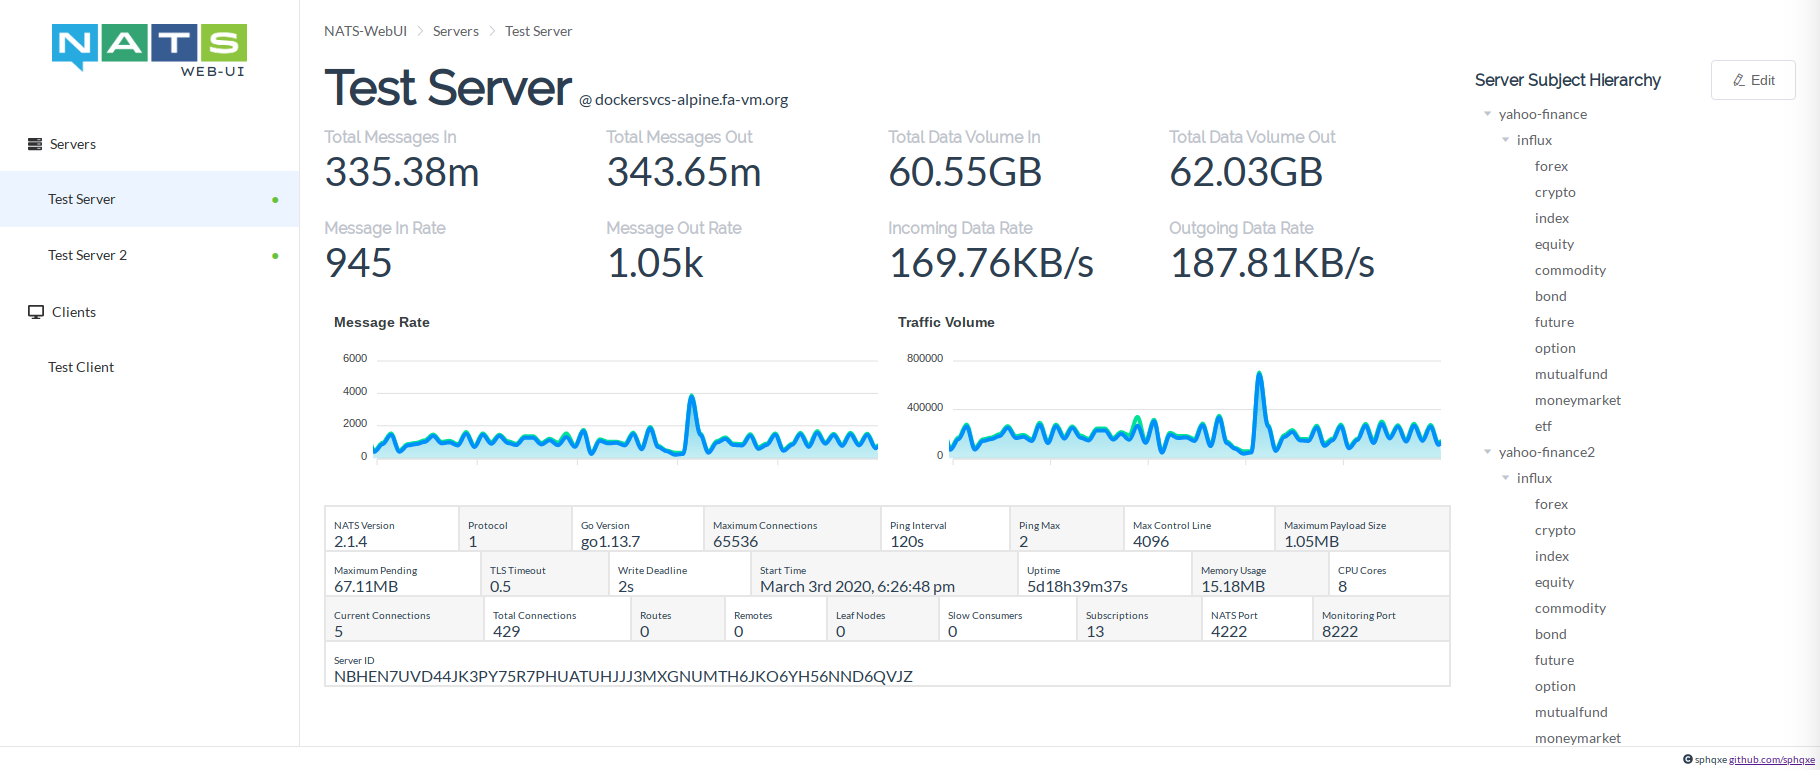
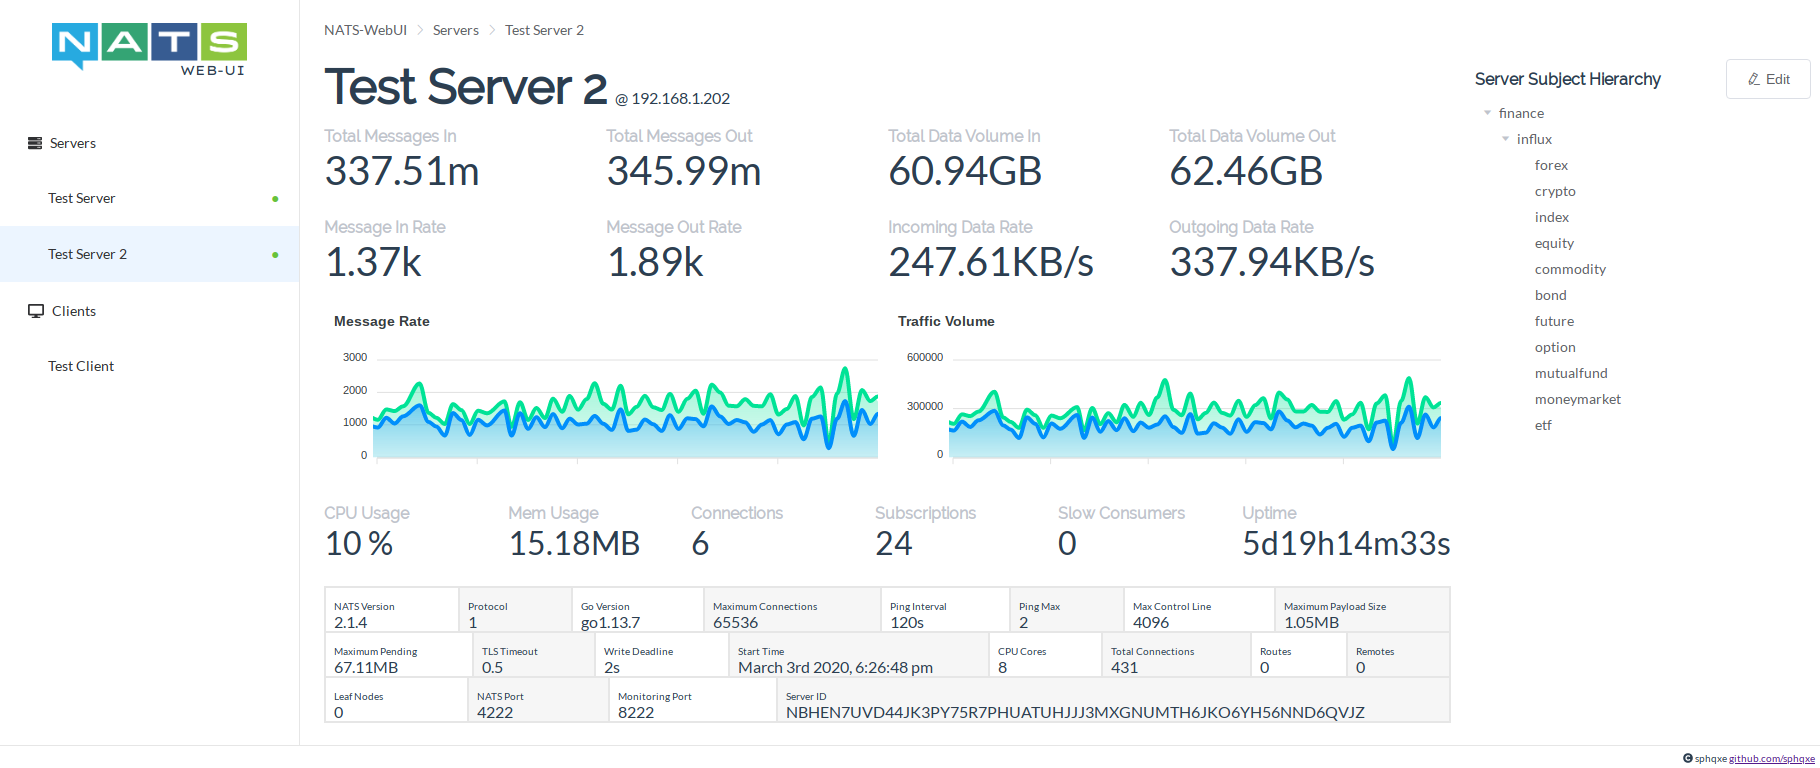
GUI updates

diff --git a/web/src/components/Monitor.vue b/web/src/components/Monitor.vue
@@ -59,6 +59,32 @@
             <VueApexCharts style="flex: 1 1 50%;" v-show="msgs_in_series.length > 1" width="100%" height="180" type="area" ref="chart1" :options="chart1Options" :series="series1"></VueApexCharts>
             <VueApexCharts style="flex: 1 1 50%;" v-show="bytes_in_series.length > 1" width="100%" height="180" type="area" ref="chart2" :options="chart2Options" :series="series2"></VueApexCharts>
           </div>
+          <div class="metric-row">
+            <div class="metric-smaller">
+              <h1 class="metric-label">CPU Usage</h1>
+              <span class="metric-value-smaller">{{ server.varz.cpu | numeral('0.[00]a') }} %</span>
+            </div>
+            <div class="metric-smaller">
+              <h1 class="metric-label">Mem Usage</h1>
+              <span class="metric-value-smaller">{{ server.varz.mem | numeral('0.00b') }}</span>
+            </div>
+            <div class="metric-smaller">
+              <h1 class="metric-label">Connections</h1>
+              <span class="metric-value-smaller">{{ server.varz.connections }}</span>
+            </div>
+            <div class="metric-smaller">
+              <h1 class="metric-label">Subscriptions</h1>
+              <span class="metric-value-smaller">{{ server.varz.subscriptions }}</span>
+            </div>
+            <div class="metric-smaller">
+              <h1 class="metric-label">Slow Consumers</h1>
+              <span class="metric-value-smaller">{{ server.varz.slow_consumers }}</span>
+            </div>
+            <div class="metric-smaller">
+              <h1 class="metric-label">Uptime</h1>
+              <span class="metric-value-smaller">{{ server.varz.uptime }}</span>
+            </div>
+          </div>
           <div id="small-metrics" style="display: flex; flex-direction: row; flex-wrap: wrap;">
             <div class="small-metric">
               <span class="metric-label-small">
@@ -158,34 +184,10 @@
             </div>
             <div class="small-metric">
               <span class="metric-label-small">
-                Uptime
-              </span>
-              <span class="metric-value-small">
-                {{ server.varz.uptime }}
-              </span>
-            </div>
-            <div class="small-metric">
-              <span class="metric-label-small">
-                Memory Usage
-              </span>
-              <span class="metric-value-small">
-                {{ server.varz.mem | numeral('0.00b') }}
-              </span>
-            </div>
-            <div class="small-metric">
-              <span class="metric-label-small">
                 CPU Cores
               </span>
               <span class="metric-value-small">
                 {{ server.varz.cores }}
-              </span>
-            </div>
-            <div class="small-metric">
-              <span class="metric-label-small">
-                Current Connections
-              </span>
-              <span class="metric-value-small">
-                {{ server.varz.connections }}
               </span>
             </div>
             <div class="small-metric">
@@ -218,22 +220,6 @@
               </span>
               <span class="metric-value-small">
                 {{ server.varz.leafnodes }}
-              </span>
-            </div>
-            <div class="small-metric">
-              <span class="metric-label-small">
-                Slow Consumers
-              </span>
-              <span class="metric-value-small">
-                {{ server.varz.slow_consumers }}
-              </span>
-            </div>
-            <div class="small-metric">
-              <span class="metric-label-small">
-                Subscriptions
-              </span>
-              <span class="metric-value-small">
-                {{ server.varz.subscriptions }}
               </span>
             </div>
             <div class="small-metric">
@@ -588,6 +574,11 @@ span.metric-value {
   font-weight: 100;
 }
 
+span.metric-value-smaller {
+  font-size: 2em;
+  font-weight: 100;
+}
+
 .metric-row {
   display: flex; flex-direction: row nowrap;
   justify-content: space-between;
@@ -598,6 +589,12 @@ span.metric-value {
   display: flex;
   flex-direction: column;
   flex: 0 0 25%;
+}
+
+.metric-smaller {
+  display: flex;
+  flex-direction: column;
+  flex: 0 0 16%;
 }
 
 #small-metrics {

diff --git a/web/src/components/Client.vue b/web/src/components/Client.vue
@@ -13,12 +13,16 @@
             <el-option v-for="server in servers" :key="server.id" :label="server.name" :value="server.id" :value-key="server.id">
             </el-option>
           </el-select>
-          <el-button v-if="client.socket === null" round plain @click="connect">
-            <font-awesome-icon :icon="['fas', 'link']"/>
-          </el-button>
-          <el-button v-if="client.socket !== null" type="success" round @click="disconnect">
-            <font-awesome-icon :icon="['fas', 'unlink']"/>
-          </el-button>
+          <el-tooltip class="item" effect="dark" content="Subscribe" placement="bottom" v-if="client.socket === null">
+            <el-button round plain @click="connect">
+              <font-awesome-icon :icon="['fas', 'link']"/>
+            </el-button>
+          </el-tooltip>
+          <el-tooltip class="item" effect="dark" content="Unsubscribe" placement="bottom" v-if="client.socket !== null">
+            <el-button type="success" round @click="disconnect">
+              <font-awesome-icon :icon="['fas', 'unlink']"/>
+            </el-button>
+          </el-tooltip>
         </div>
         <div style="flex: 1 1 auto; display: flex; flex-direction: row; margin-left: 8px; padding: 0px 8px 8px 8px;">
           <el-checkbox label="Info" v-model="client.info" @change="handleFilterCheckChange"></el-checkbox>
